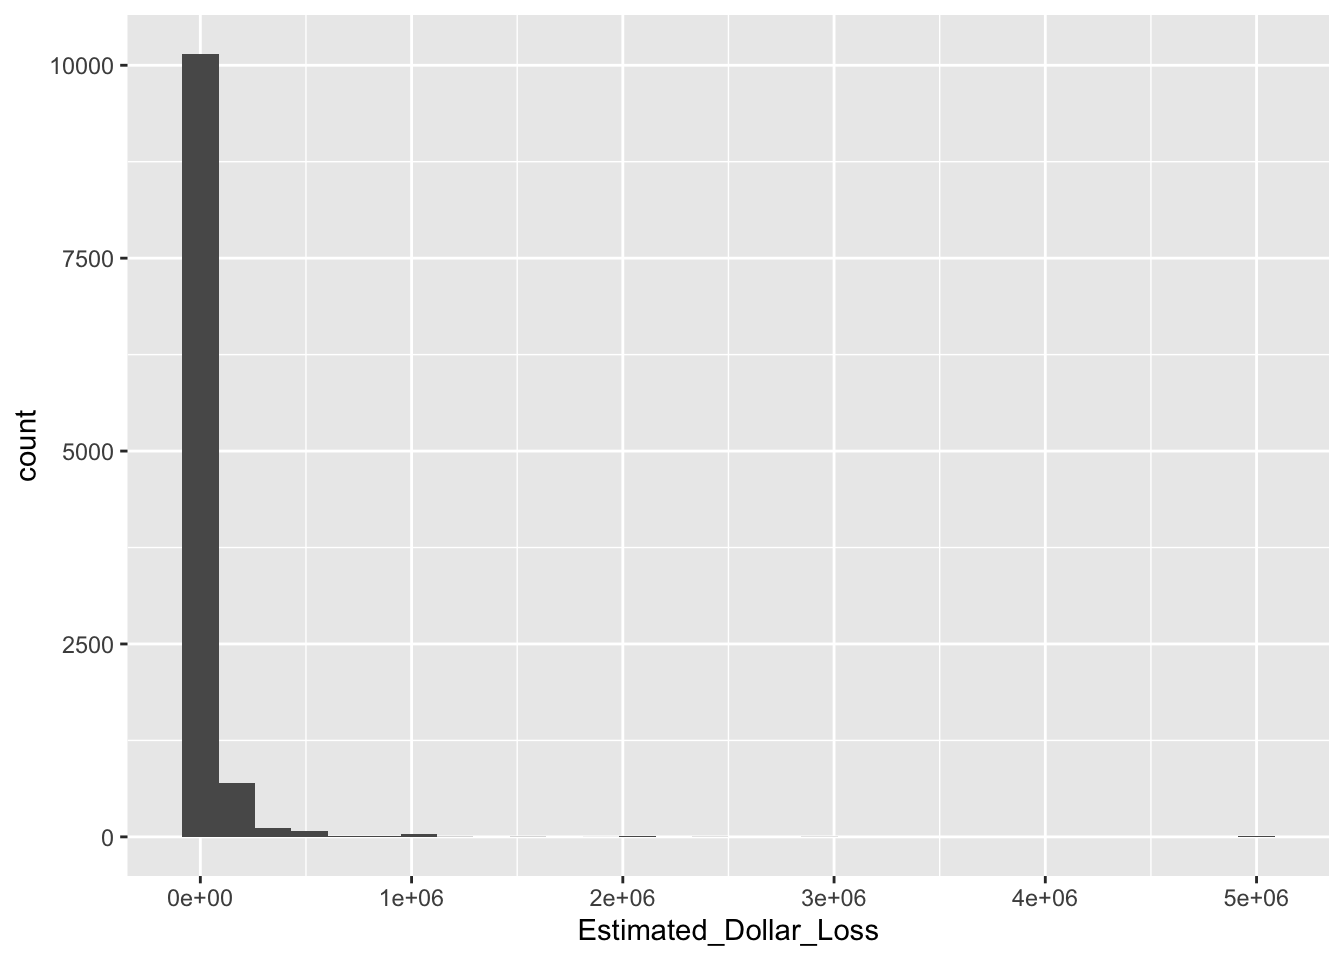
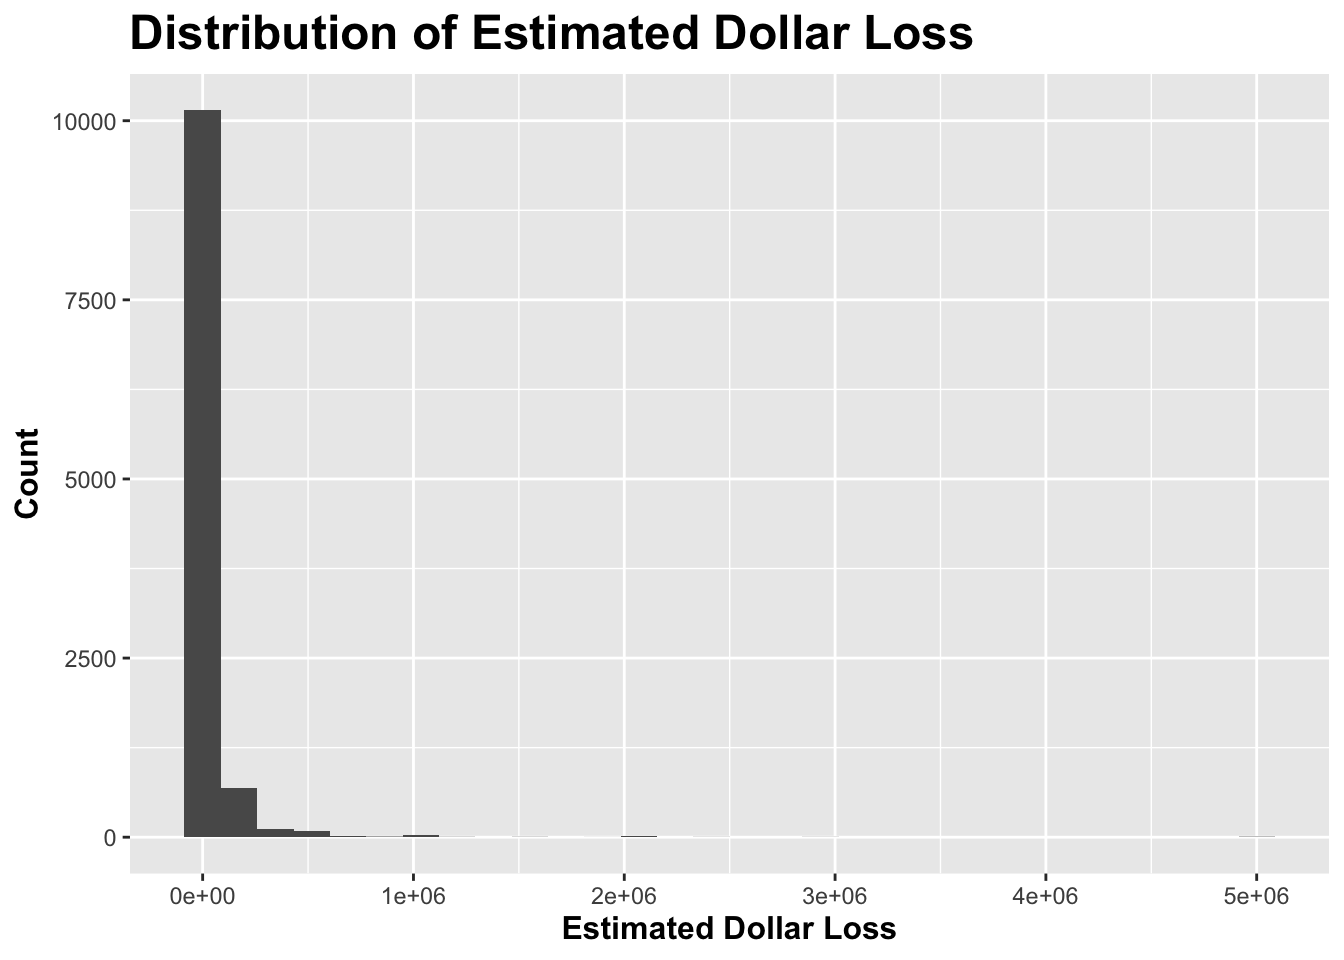
A1C7

diff --git a/public/2020/09/17/positive-correlation-of-severity-of-fire-incident-on-estimated-loss-and-number-of-responding-firefighters/index.html b/public/2020/09/17/positive-correlation-of-severity-of-fire-incident-on-estimated-loss-and-number-of-responding-firefighters/index.html
@@ -62,7 +62,7 @@
 
   <article class="article">
     
-    <span class="article-duration">5 min read</span>
+    <span class="article-duration">6 min read</span>
     
 
     <h1 class="article-title">Positive correlation of severity of fire incident on estimated loss and number of responding firefighters</h1>
@@ -106,15 +106,21 @@ To make the graph more readable, couple outlier incidents that resulted in more 
 #to adjust the axis values by removing the 1 case that have significantly large estimated dollar loss and number of responding personnel. Also, there exist a severity of 99 in the extent of fire column which stands for undetermined, for accuracy, we remove it like a NA row.
 Loss_NumUnit_low%&gt;%
   ggplot(aes(x=Number_of_responding_personnel))+
-  geom_histogram(binwidth = 10)
+  geom_histogram(binwidth = 10)+
+  labs(x = &quot;Number of Responding Personnel&quot;, y = &quot;Count&quot;, title = &quot;Distribution of Number of Responding Personnel&quot;)+
+  theme(title = element_text(size = 15, face = &quot;bold&quot;),axis.title=element_text(size=12))
 #clearly most fire incidents required less than 150 personnel
 Loss_NumUnit_low%&gt;%
   ggplot(aes(x=Estimated_Dollar_Loss))+
-  geom_histogram()
+  geom_histogram()+
+  labs(x = &quot;Estimated Dollar Loss&quot;, y = &quot;Count&quot;, title = &quot;Distribution of Estimated Dollar Loss&quot;)+
+  theme(title = element_text(size = 15, face = &quot;bold&quot;),axis.title=element_text(size=12))
 #most losses are contained within $500,000
 Loss_NumUnit_low%&gt;%
   ggplot(aes(x=Extent_Of_Fire))+
-  geom_histogram(binwidth = 1)
+  geom_histogram(binwidth = 1)+
+  labs(x = &quot;Extent of Fire&quot;, y = &quot;Count&quot;, title = &quot;Distribution of Extent of Fire&quot;)+
+  theme(title = element_text(size = 15, face = &quot;bold&quot;),axis.title=element_text(size=12))
 #most fire incidents are restricted to less than 7-8</code></pre>
 <p><img src="/post/2020-09-20-Ps1-Yi_Su_files/figure-html/unnamed-chunk-1-1.png" width="50%" /><img src="/post/2020-09-20-Ps1-Yi_Su_files/figure-html/unnamed-chunk-1-2.png" width="50%" /><img src="/post/2020-09-20-Ps1-Yi_Su_files/figure-html/unnamed-chunk-1-3.png" width="50%" /></p>
 <p>The individual distribution of each variable are displayed as above. In all three variables, the distribution is heavily centered at the left-most end of the graph.</p>
@@ -129,16 +135,20 @@ Loss_NumUnit_low%&gt;%
   ggplot(aes(x=Extent_Of_Fire, y=Number_of_responding_personnel))+
   geom_point()+
   geom_smooth(method =&quot;lm&quot;)+
+  labs(x = &quot;Extent of Fire&quot;, y = &quot;Number of Responding Personnel&quot;, title = &quot;Extent of Fire Vs. Number of Firefighters&quot;)+
   annotate(&quot;text&quot;, x = 4, y = 200,
-  label = &quot;paste(italic(R), \&quot; = .431\&quot;)&quot;, parse = TRUE)
+  label = &quot;paste(italic(R), \&quot; = .431\&quot;)&quot;, parse = TRUE, size = 8)+
+  theme(title = element_text(size = 15, face = &quot;bold&quot;),axis.title=element_text(size=12))
 cor(Loss_NumUnit_low$Extent_Of_Fire,Loss_NumUnit_low$Number_of_responding_personnel)</code></pre>
 <pre><code>## [1] 0.4311056</code></pre>
 <pre class="r"><code>Loss_NumUnit_low%&gt;%
   ggplot(aes(x=Extent_Of_Fire, y=Estimated_Dollar_Loss))+
   geom_point()+
   geom_smooth(method =&quot;lm&quot;)+
+  labs(x = &quot;Extent of Fire&quot;, y = &quot;Estimated Dollar Loss&quot;, title = &quot;Extent of Fire Vs. Dollar Loss&quot;)+
   annotate(&quot;text&quot;, x = 4, y = 1500000,
-  label = &quot;paste(italic(R), \&quot; = .312\&quot;)&quot;, parse = TRUE)
+  label = &quot;paste(italic(R), \&quot; = .312\&quot;)&quot;, parse = TRUE,size = 8)+
+  theme(title = element_text(size = 15, face = &quot;bold&quot;),axis.title=element_text(size=12))
 cor(Loss_NumUnit_low$Extent_Of_Fire,Loss_NumUnit_low$Estimated_Dollar_Loss)</code></pre>
 <pre><code>## [1] 0.3120458</code></pre>
 <p><img src="/post/2020-09-20-Ps1-Yi_Su_files/figure-html/unnamed-chunk-2-1.png" width="50%" /><img src="/post/2020-09-20-Ps1-Yi_Su_files/figure-html/unnamed-chunk-2-2.png" width="50%" /></p>
@@ -147,8 +157,10 @@ cor(Loss_NumUnit_low$Extent_Of_Fire,Loss_NumUnit_low$Estimated_Dollar_Loss)</cod
   ggplot(aes(x=Estimated_Dollar_Loss, y=Number_of_responding_personnel))+
   geom_point()+
   geom_smooth(method =&quot;lm&quot;)+
+  labs(x = &quot;Estimated Dollar Loss&quot;, y = &quot;Number of Responding Personnel&quot;, title = &quot;Dollar Loss Vs. Number of Firefighters&quot;)+
   annotate(&quot;text&quot;, x = 3000000, y = 400,
-  label = &quot;paste(italic(R), \&quot; = .549\&quot;)&quot;, parse = TRUE)
+  label = &quot;paste(italic(R), \&quot; = .549\&quot;)&quot;, parse = TRUE,size = 8)+
+  theme(title = element_text(size = 15, face = &quot;bold&quot;),axis.title=element_text(size=12))
 cor(Loss_NumUnit_low$Estimated_Dollar_Loss,Loss_NumUnit_low$Number_of_responding_personnel)</code></pre>
 <pre><code>## [1] 0.5493347</code></pre>
 <p><img src="/post/2020-09-20-Ps1-Yi_Su_files/figure-html/unnamed-chunk-3-1.png" width="80%" /></p>

diff --git a/content/post/2020-09-20-Ps1-Yi_Su.html b/content/post/2020-09-20-Ps1-Yi_Su.html
@@ -40,15 +40,21 @@ To make the graph more readable, couple outlier incidents that resulted in more 
 #to adjust the axis values by removing the 1 case that have significantly large estimated dollar loss and number of responding personnel. Also, there exist a severity of 99 in the extent of fire column which stands for undetermined, for accuracy, we remove it like a NA row.
 Loss_NumUnit_low%&gt;%
   ggplot(aes(x=Number_of_responding_personnel))+
-  geom_histogram(binwidth = 10)
+  geom_histogram(binwidth = 10)+
+  labs(x = &quot;Number of Responding Personnel&quot;, y = &quot;Count&quot;, title = &quot;Distribution of Number of Responding Personnel&quot;)+
+  theme(title = element_text(size = 15, face = &quot;bold&quot;),axis.title=element_text(size=12))
 #clearly most fire incidents required less than 150 personnel
 Loss_NumUnit_low%&gt;%
   ggplot(aes(x=Estimated_Dollar_Loss))+
-  geom_histogram()
+  geom_histogram()+
+  labs(x = &quot;Estimated Dollar Loss&quot;, y = &quot;Count&quot;, title = &quot;Distribution of Estimated Dollar Loss&quot;)+
+  theme(title = element_text(size = 15, face = &quot;bold&quot;),axis.title=element_text(size=12))
 #most losses are contained within $500,000
 Loss_NumUnit_low%&gt;%
   ggplot(aes(x=Extent_Of_Fire))+
-  geom_histogram(binwidth = 1)
+  geom_histogram(binwidth = 1)+
+  labs(x = &quot;Extent of Fire&quot;, y = &quot;Count&quot;, title = &quot;Distribution of Extent of Fire&quot;)+
+  theme(title = element_text(size = 15, face = &quot;bold&quot;),axis.title=element_text(size=12))
 #most fire incidents are restricted to less than 7-8</code></pre>
 <p><img src="/post/2020-09-20-Ps1-Yi_Su_files/figure-html/unnamed-chunk-1-1.png" width="50%" /><img src="/post/2020-09-20-Ps1-Yi_Su_files/figure-html/unnamed-chunk-1-2.png" width="50%" /><img src="/post/2020-09-20-Ps1-Yi_Su_files/figure-html/unnamed-chunk-1-3.png" width="50%" /></p>
 <p>The individual distribution of each variable are displayed as above. In all three variables, the distribution is heavily centered at the left-most end of the graph.</p>
@@ -63,16 +69,20 @@ Loss_NumUnit_low%&gt;%
   ggplot(aes(x=Extent_Of_Fire, y=Number_of_responding_personnel))+
   geom_point()+
   geom_smooth(method =&quot;lm&quot;)+
+  labs(x = &quot;Extent of Fire&quot;, y = &quot;Number of Responding Personnel&quot;, title = &quot;Extent of Fire Vs. Number of Firefighters&quot;)+
   annotate(&quot;text&quot;, x = 4, y = 200,
-  label = &quot;paste(italic(R), \&quot; = .431\&quot;)&quot;, parse = TRUE)
+  label = &quot;paste(italic(R), \&quot; = .431\&quot;)&quot;, parse = TRUE, size = 8)+
+  theme(title = element_text(size = 15, face = &quot;bold&quot;),axis.title=element_text(size=12))
 cor(Loss_NumUnit_low$Extent_Of_Fire,Loss_NumUnit_low$Number_of_responding_personnel)</code></pre>
 <pre><code>## [1] 0.4311056</code></pre>
 <pre class="r"><code>Loss_NumUnit_low%&gt;%
   ggplot(aes(x=Extent_Of_Fire, y=Estimated_Dollar_Loss))+
   geom_point()+
   geom_smooth(method =&quot;lm&quot;)+
+  labs(x = &quot;Extent of Fire&quot;, y = &quot;Estimated Dollar Loss&quot;, title = &quot;Extent of Fire Vs. Dollar Loss&quot;)+
   annotate(&quot;text&quot;, x = 4, y = 1500000,
-  label = &quot;paste(italic(R), \&quot; = .312\&quot;)&quot;, parse = TRUE)
+  label = &quot;paste(italic(R), \&quot; = .312\&quot;)&quot;, parse = TRUE,size = 8)+
+  theme(title = element_text(size = 15, face = &quot;bold&quot;),axis.title=element_text(size=12))
 cor(Loss_NumUnit_low$Extent_Of_Fire,Loss_NumUnit_low$Estimated_Dollar_Loss)</code></pre>
 <pre><code>## [1] 0.3120458</code></pre>
 <p><img src="/post/2020-09-20-Ps1-Yi_Su_files/figure-html/unnamed-chunk-2-1.png" width="50%" /><img src="/post/2020-09-20-Ps1-Yi_Su_files/figure-html/unnamed-chunk-2-2.png" width="50%" /></p>
@@ -81,8 +91,10 @@ cor(Loss_NumUnit_low$Extent_Of_Fire,Loss_NumUnit_low$Estimated_Dollar_Loss)</cod
   ggplot(aes(x=Estimated_Dollar_Loss, y=Number_of_responding_personnel))+
   geom_point()+
   geom_smooth(method =&quot;lm&quot;)+
+  labs(x = &quot;Estimated Dollar Loss&quot;, y = &quot;Number of Responding Personnel&quot;, title = &quot;Dollar Loss Vs. Number of Firefighters&quot;)+
   annotate(&quot;text&quot;, x = 3000000, y = 400,
-  label = &quot;paste(italic(R), \&quot; = .549\&quot;)&quot;, parse = TRUE)
+  label = &quot;paste(italic(R), \&quot; = .549\&quot;)&quot;, parse = TRUE,size = 8)+
+  theme(title = element_text(size = 15, face = &quot;bold&quot;),axis.title=element_text(size=12))
 cor(Loss_NumUnit_low$Estimated_Dollar_Loss,Loss_NumUnit_low$Number_of_responding_personnel)</code></pre>
 <pre><code>## [1] 0.5493347</code></pre>
 <p><img src="/post/2020-09-20-Ps1-Yi_Su_files/figure-html/unnamed-chunk-3-1.png" width="80%" /></p>
